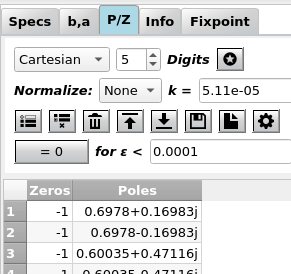
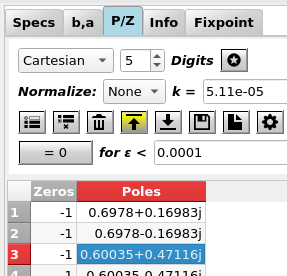
update documentation Signed-off-by: Christian Muenker <mail@chipmuenk.de>

diff --git a/docs/source/manual/input_pz.rst b/docs/source/manual/input_pz.rst
@@ -3,10 +3,16 @@ Input P/Z
 
 :numref:`fig_input_pz_cartesian` shows a typical view of the **P/Z** tab where
 you can view and edit the filter poles and zeros. Pole / zero values are updated
-every time you design a new filter or update the coefficients.
+every time you design a new filter. After editing poles or zeros by hand, the changes
+have to be applied via the (highlighted) button "Apply P/Z to filter".
 
-You can select the number of displayed digits, poles and zeros are always stored with
-full accuracy.
+In real-valued systems (i.e. systems with a real-valued impulse response and real-valued
+coefficients) poles and zeros are real-valued or come in conjugate complex pairs. This
+means they have the same real part and positive / negative imaginary part,  e.g. 
+:math:`p_1 = 0.5 + 0.5j` and :math:`p_2 = 0.5 - 0.5j` or
+:math:`z_1 = 1\angle +0.25 \pi` and :math:`z_2 = 1\angle - 0.25 \pi`. Otherwise, you
+end up with a complex-valued system with complex-valued coefficients which is not what
+you want in most cases.
 
 Cartesian format
 -----------------
@@ -16,7 +22,7 @@ Cartesian format
 .. figure:: ../img/manual/pyfda_input_pz_cartesian.png
    :alt: Screenshot of the pole/zero tab in cartesian format
    :align: center
-   :width: 30%
+   :width: 50%
 
    Screenshot of the pole/zero tab in cartesian format
 
@@ -29,15 +35,15 @@ Polar format
 .. _fig_input_pz_polar:
 
 .. figure:: ../img/manual/pyfda_input_pz_polar.png
-   :alt: Screenshot of the pole/zero tab in polar format
+   :alt: Screenshot of the pole/zero tab in polar format with activated "Format" button
    :align: center
-   :width: 30%
+   :width: 50%
 
-   Screenshot of the pole/zero tab in polar format
+   Screenshot of the pole/zero tab in polar format with activated "Format" button
 
 Alternatively, poles and zeros can be displayed and edited in polar format
 (radius and angle) as shown in :numref:`fig_input_pz_polar`. Especially for zeros
-which typically sit on the unit circle (:math:`r = 1`) this format may be more
+which often are placed on the unit circle (:math:`r = 1`) this format may be more
 suitable.
 
 During editing, use the '>' character to separate radius and phase. The phase can
@@ -50,22 +56,36 @@ be displayed and entered in the following formats:
 * Multiples of **pi** with a range of :math:`\pm -1 \ldots +1`, terminate the phase with
   a 'p' or 'pi' to specifiy multiples of pi.
 
-For real-valued systems, poles and zeros need to be either real-valued or come in
-conjugate complex pairs, e.g. :math:`p_1 = 0.5 + 0.5j` and :math:`p_2 = 0.5 - 0.5j` or
-:math:`z_1 = 1\angle +0.25 \pi` and :math:`z_2 = 1\angle - 0.25 \pi`. Otherwise, you
-end up with a complex-valued system with complex-valued coefficients which is not what
-you want in most cases.
+When entering poles or zeros, the format is chosen automatically, depending on which 
+special characters (like '<', 'o', 'r' or 'pi') have been found in the text field.
+
+You can "misuse" this feature as a converter between different number formats:
+
+- '3<0.7854' or '3<0.7854r' or '3<0.7854rad'
+- '3<0.25p' or '3<0.25pi'
+- '3<45°' or '3<45o'
+-  2.12132+2.12132j
+
+all represent the same value. You can omit the radius if :math:`r = 1`, simply 
+enter '<45°' instead of '1<45°'.
 
 Use the corresponding icons to enter a new row or delete one. The trash can deletes the whole
 table.
 
-When poles or zeros have been modified, the "upload values" icon becomes highlighted. Changes
-are only applied when stored in the internal dict.
+Saving and Loading
+~~~~~~~~~~~~~~~~~~~
 
-Poles and zeros can be saved in various formats, CSV option can be selected in the CSV 
-pop-up menu (the 'cog' icon). When cells have been selected before saving, only the selected
-cells are saved, *exactly as displayed*. This means, cells are saved with reduced number of
-digits and containing special characters like '<' etc. which cannot be read back.
+Poles and zeros can be saved in various file formats (CSV, MAT, NPZ, NPY). CSV file
+format options (row or column, delimiter, ...) are selected in the CSV pop-up menu 
+(the 'cog' icon). Independent of the table display format, coefficients are saved
+with full precision in complex (cartesian) number format when the format button 
+(the "star") is deactivated.
+
+When the format button *is* activated, values are saved *exactly as displayed*. 
+This means, cells may be saved with reduced number 
+of digits and in polar number format, containing special characters like '<'.
+
+
 
 Development
 -----------
